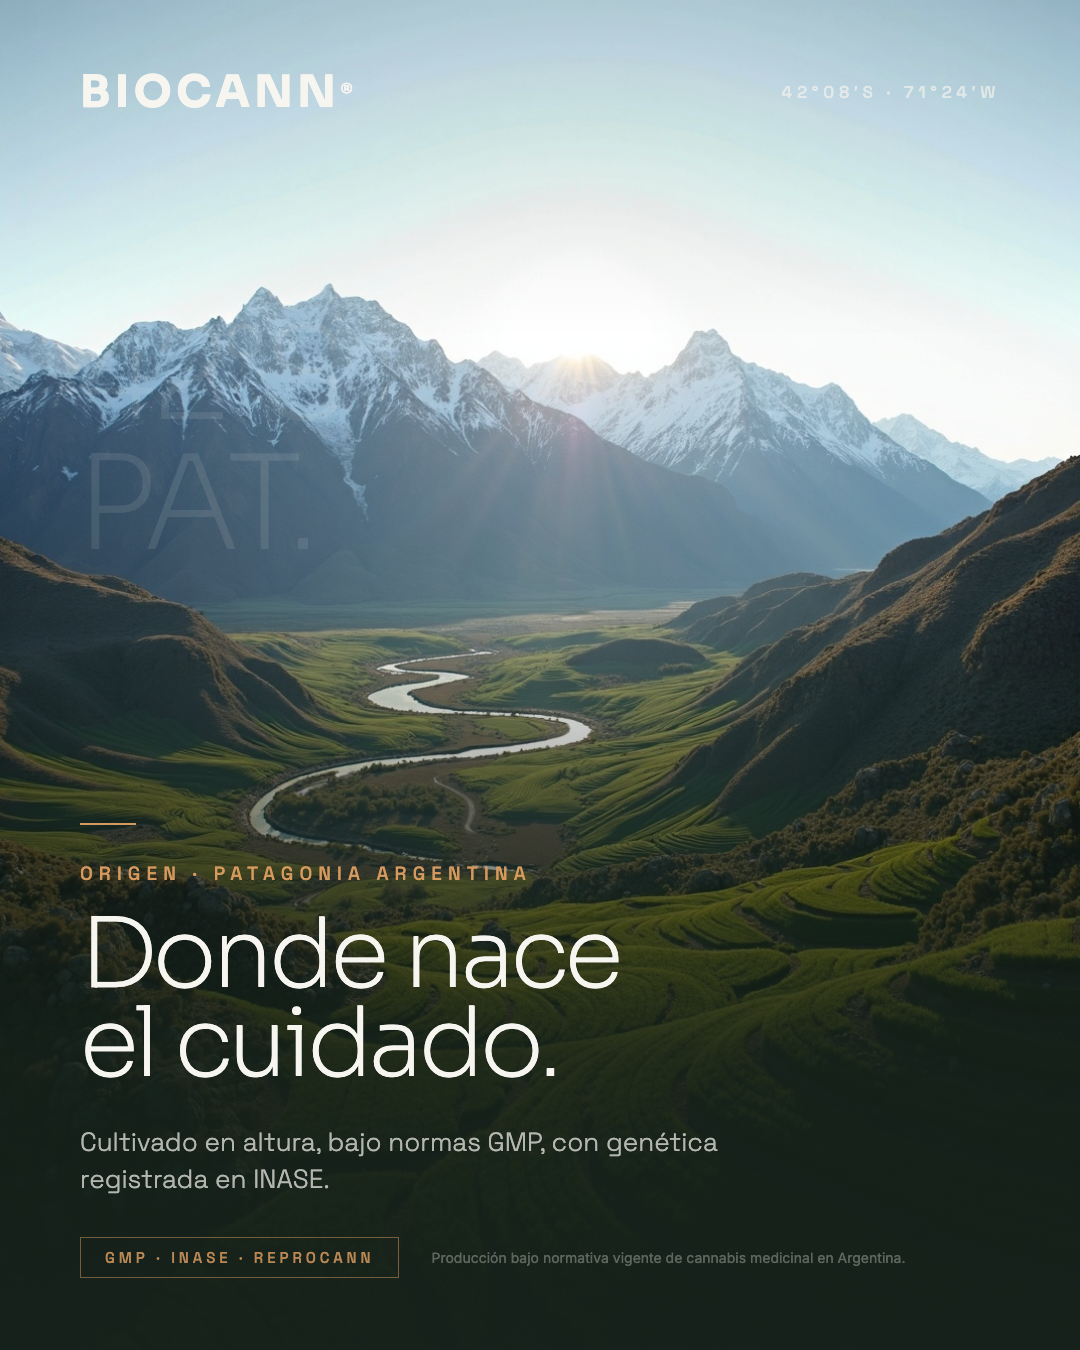
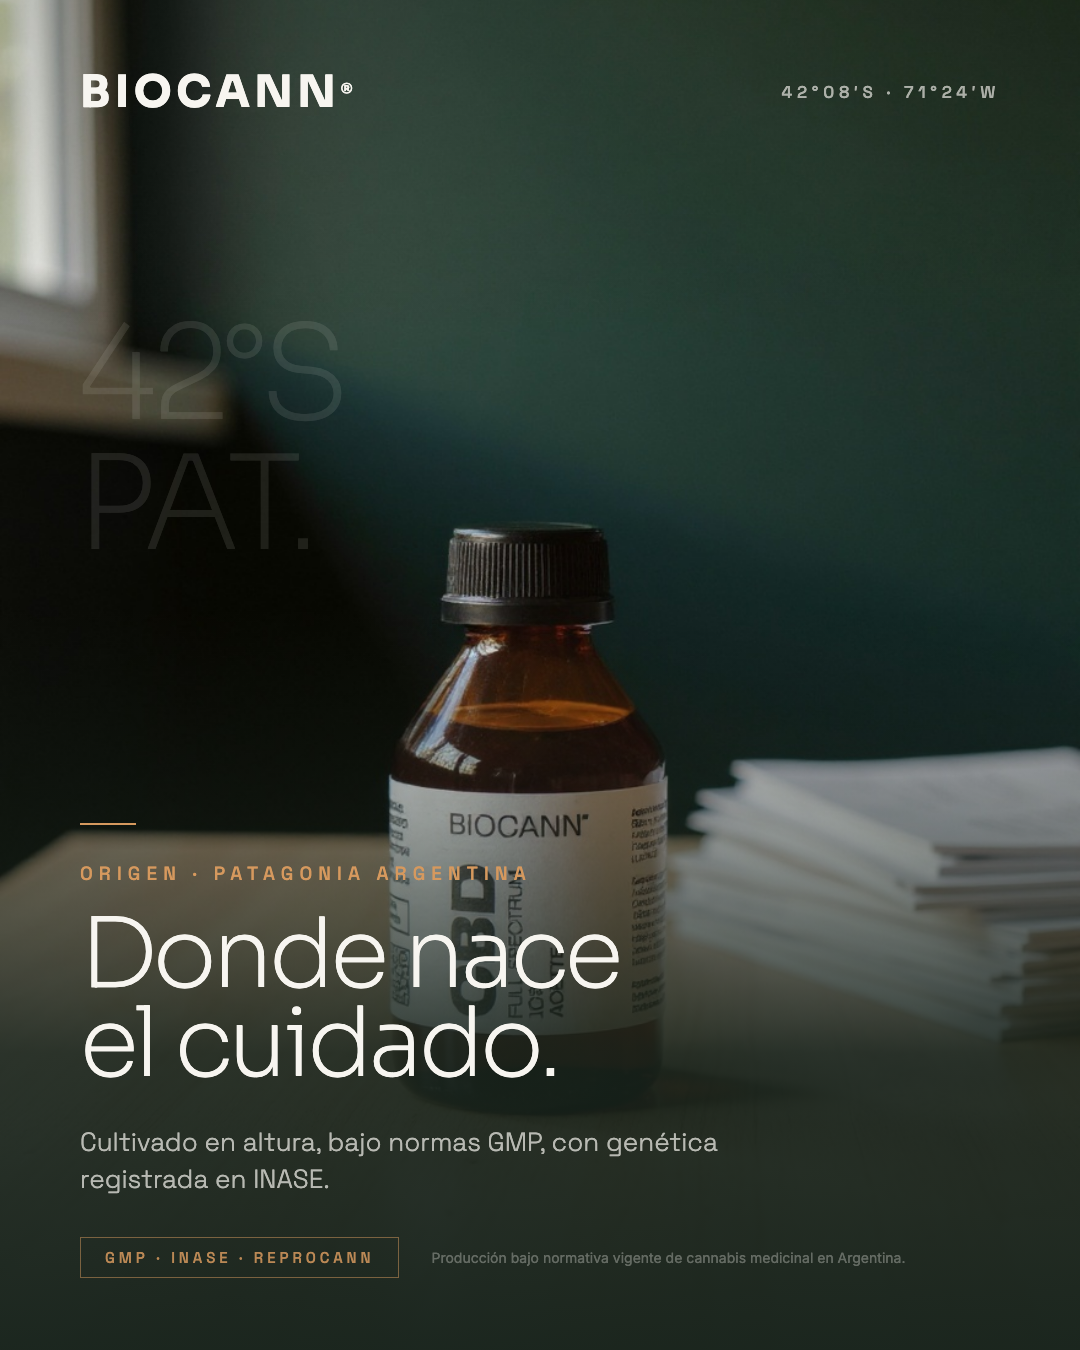
fix(cal-cards): CAL-03 frasco BIOCANN real + CAL-04 persona en notebook
- CAL-03: reemplaza gotero genérico por foto real del producto BIOCANN® CBD
- CAL-04: genera escena persona contratando cobertura en laptop (fal.ai flux-pro)

diff --git a/cal-cards/cal-04-coberturas.html b/cal-cards/cal-04-coberturas.html
@@ -13,7 +13,7 @@
     position: absolute;
     top: 0; left: 0; right: 0;
     height: 740px;
-    background: url('../photos/cal/cal-04-coberturas.jpg') center 25%/cover no-repeat;
+    background: url('../photos/cal/cal-04-laptop-membresia.jpg') center 30%/cover no-repeat;
   }
   .photo::after {
     content: '';

diff --git a/cal-cards/cal-03-patagonia.html b/cal-cards/cal-03-patagonia.html
@@ -10,7 +10,7 @@
 
   .hero {
     position: absolute; inset: 0;
-    background: url('../photos/cal/cal-03-patagonia-aerea.jpg') center 35%/cover no-repeat;
+    background: url('../photos/cal/cal-01-real-biocann.jpg') center 40%/cover no-repeat;
   }
   .overlay {
     position: absolute; inset: 0;
